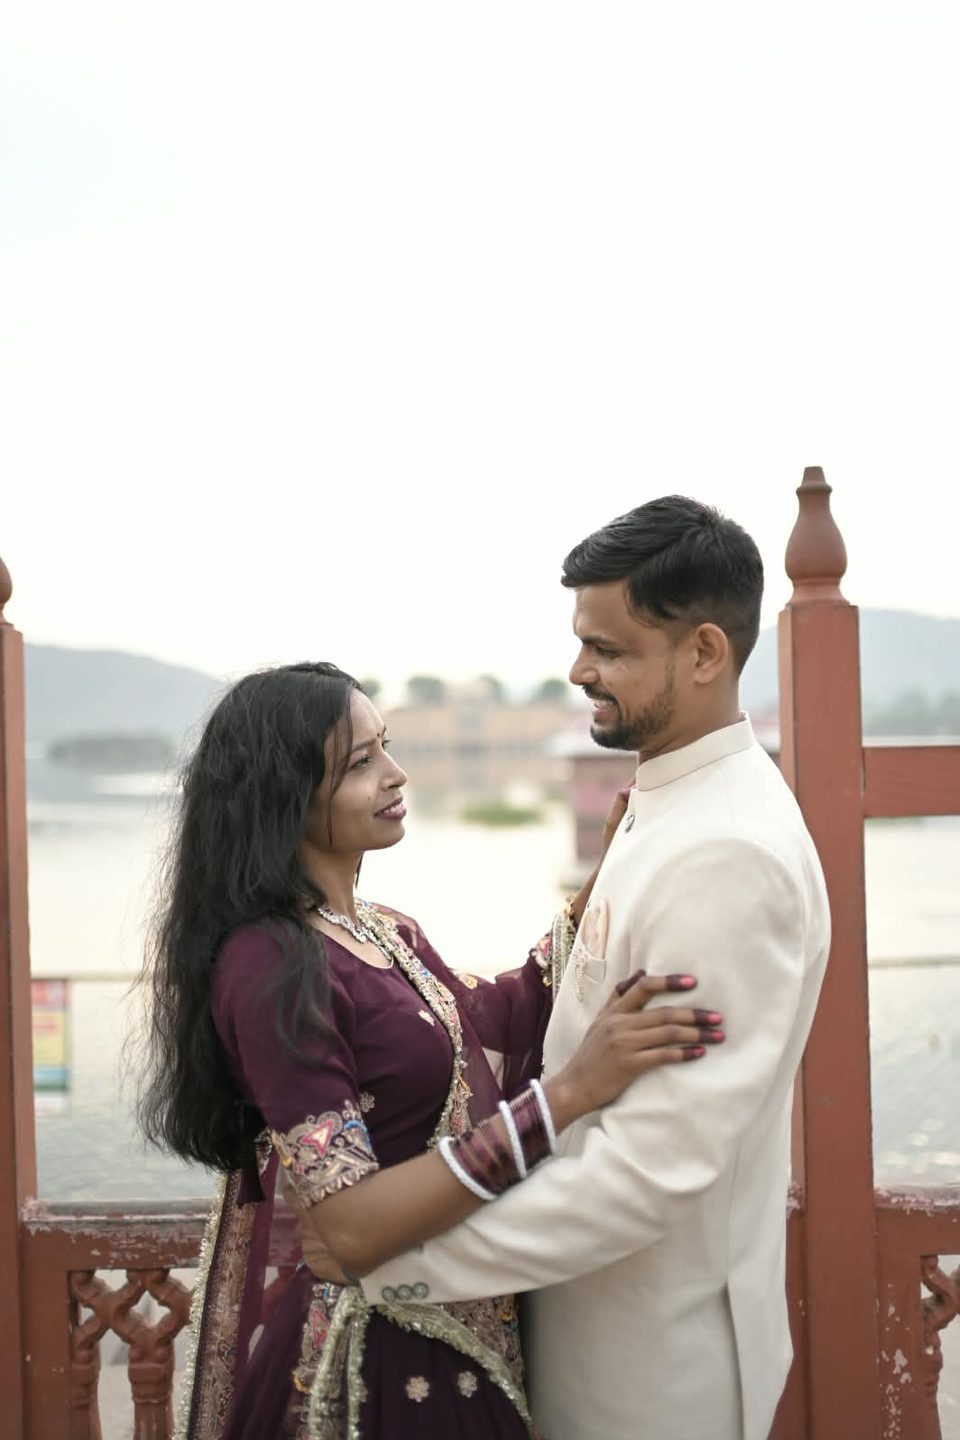
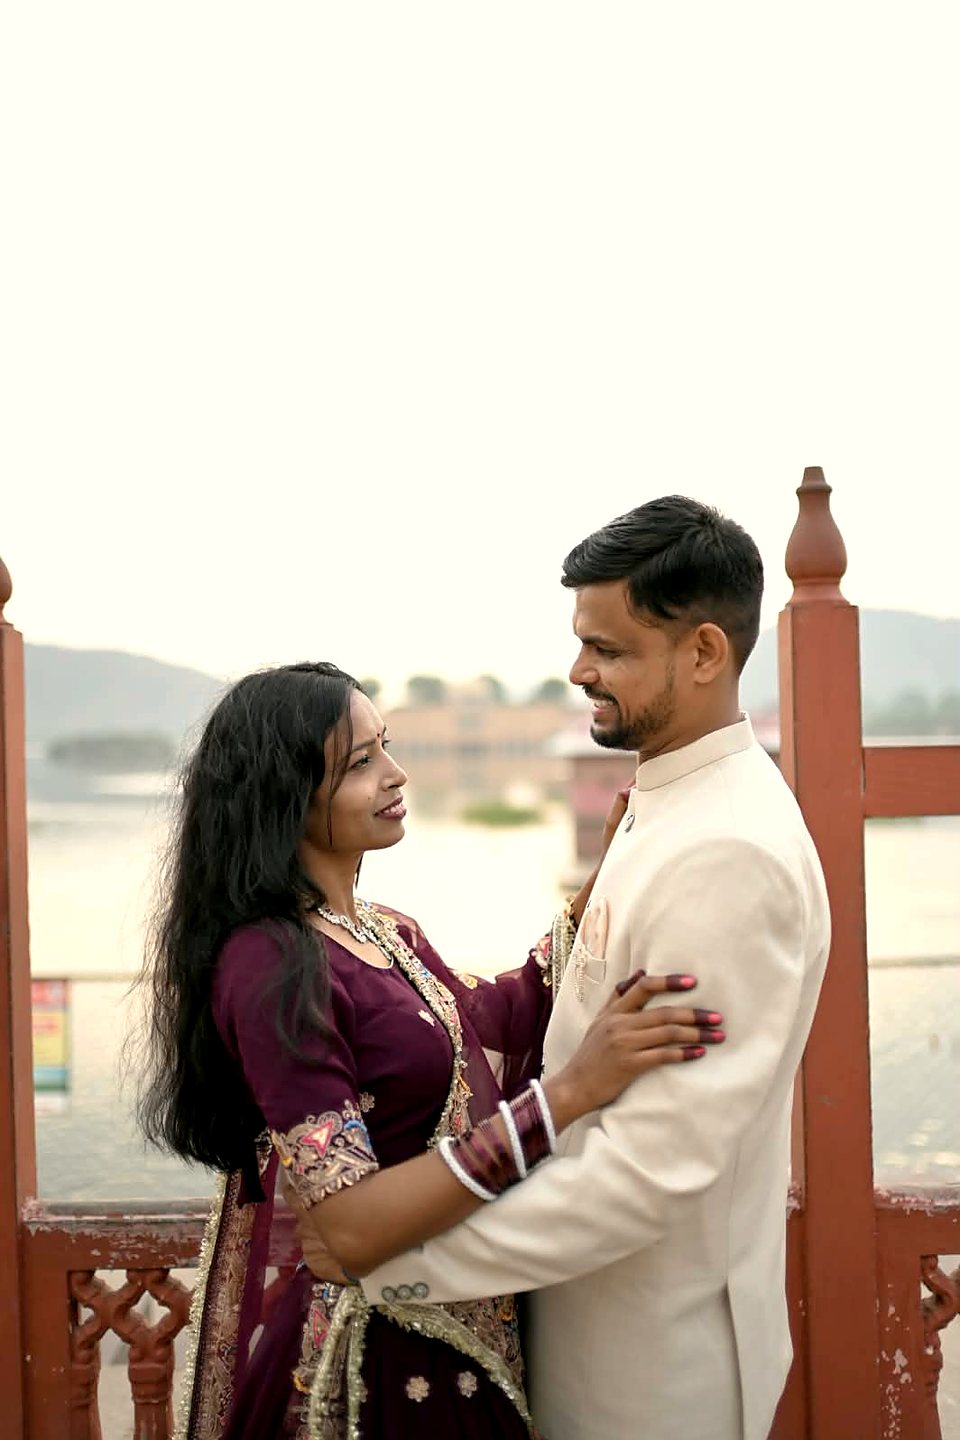
Slideshow: two colour-corrected couple photos in the requested order

diff --git a/config.js b/config.js
@@ -67,8 +67,7 @@ window.INVITE = {
     aspectRatio: "2 / 3",   // shape of the photo box (width / height); leave "" to fit the tallest photo automatically
     images: [
       "assets/photo-1.jpg",
-      "assets/photo-2.jpg",
-      "assets/photo-3.jpg"
+      "assets/photo-2.jpg"
     ]
   },
 

diff --git a/README.md b/README.md
@@ -11,7 +11,7 @@ Plain HTML + CSS + JavaScript. No framework, no build step.
 | `style.css` | The design (mobile first, same values as the original template) |
 | `script.js` | Interactions: tap-to-open video, music, scratch heart, countdown, slideshow, calendar links, RSVP |
 | `preview.html` | Phone-sized preview to view on a desktop browser |
-| `assets/` | Intro video (`intro.mp4`) and its first frame (`poster.jpg`), background music, background textures, slideshow photos (`photo-1/2/3.jpg`), link-preview images (`og-*.jpg`), self-hosted fonts (`fonts/`, `fonts.css`) |
+| `assets/` | Intro video (`intro.mp4`) and its first frame (`poster.jpg`), background music, background textures, slideshow photos (`photo-1/2.jpg`), link-preview images (`og-*.jpg`), self-hosted fonts (`fonts/`, `fonts.css`) |
 | `card-translation.md` | Full English translation of the Hindi wedding card the details came from |
 
 ## Editing the invitation
